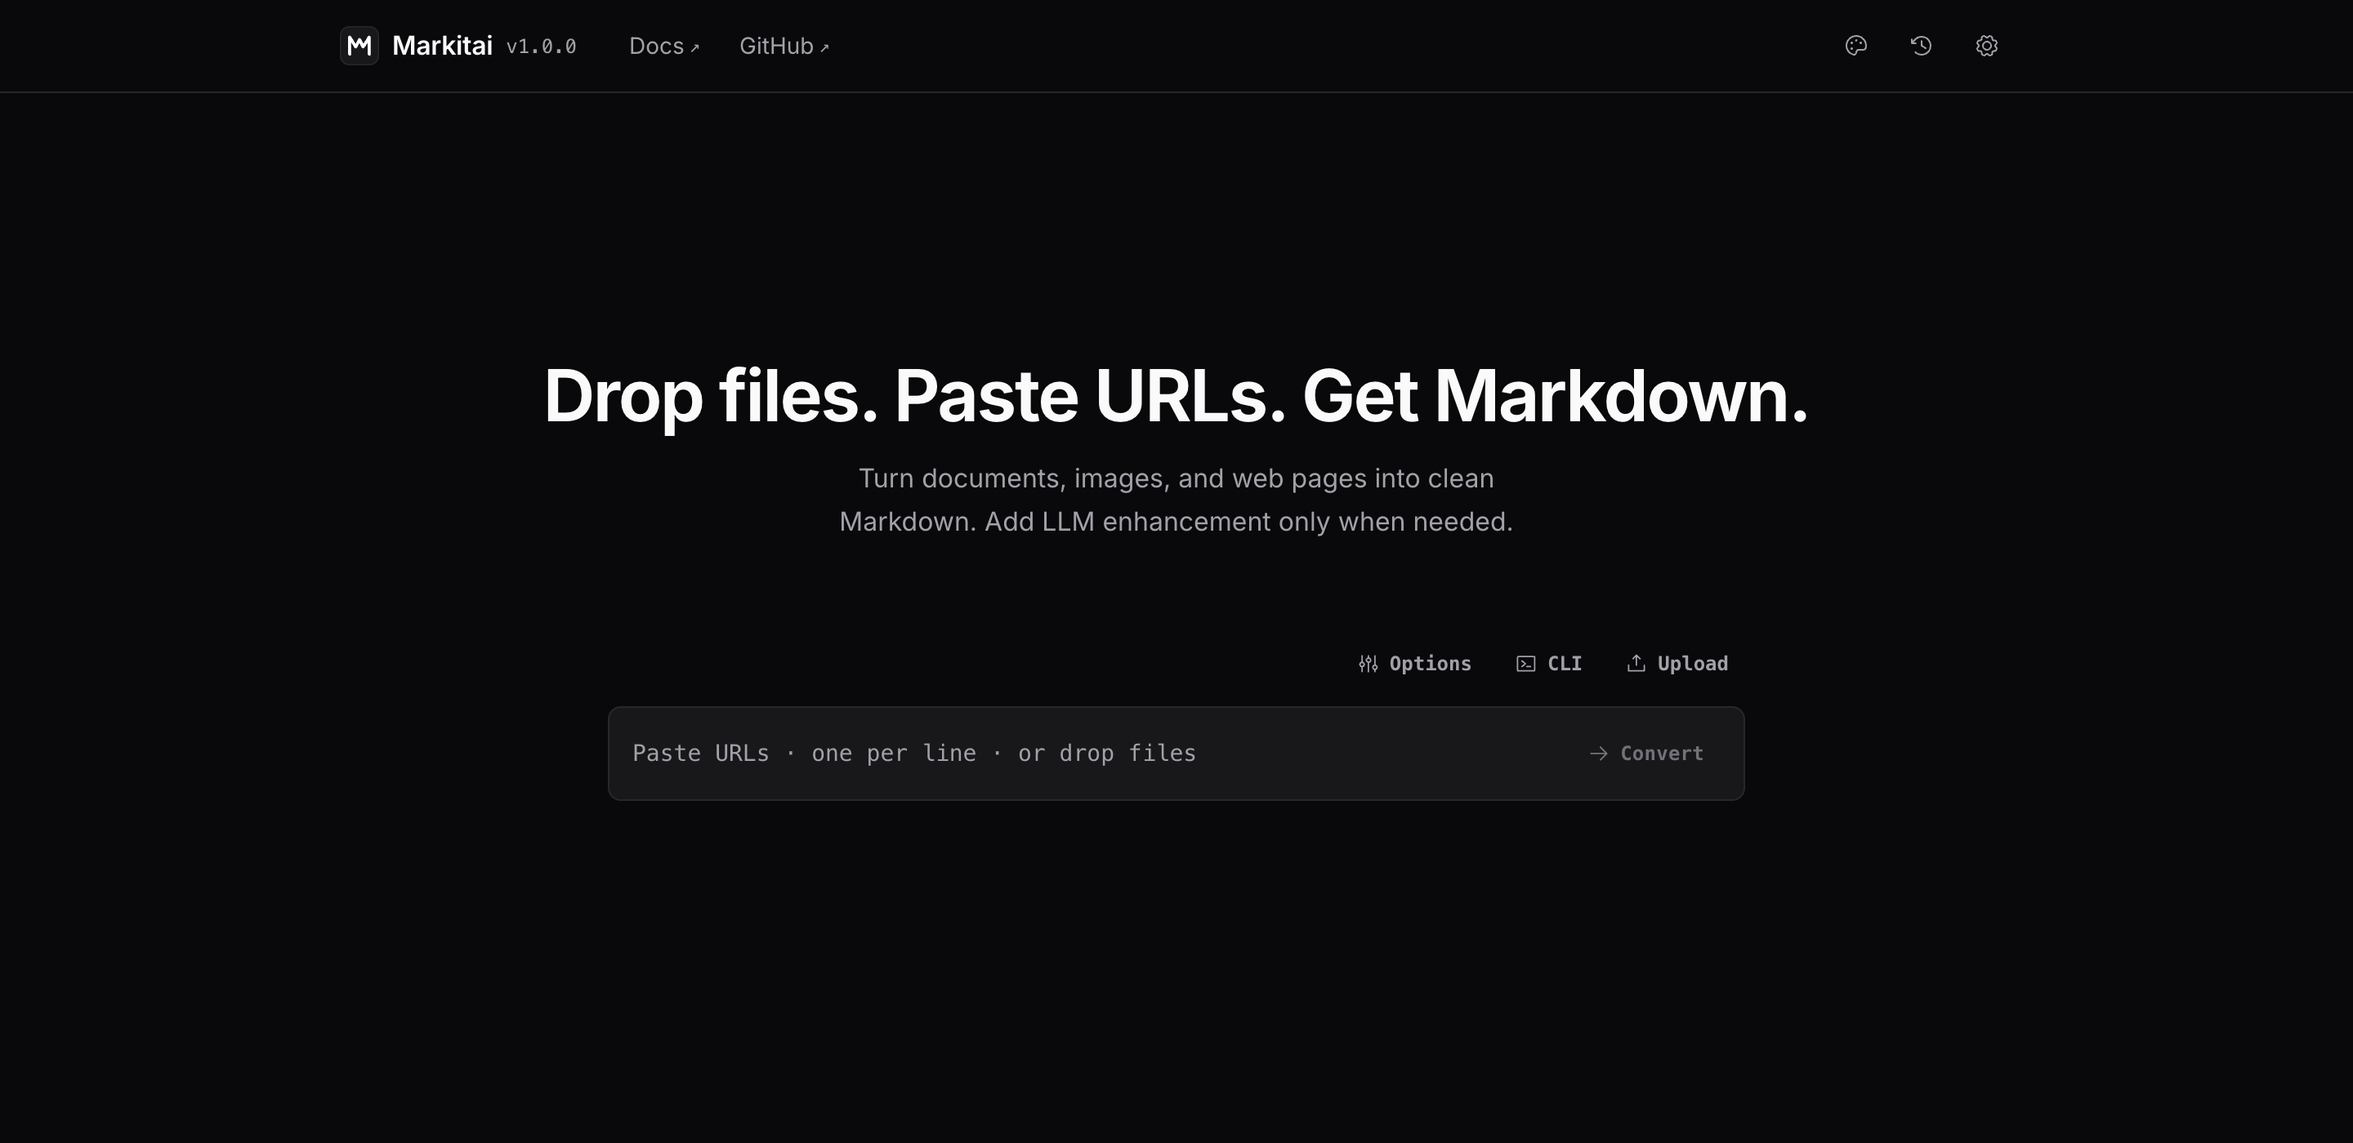
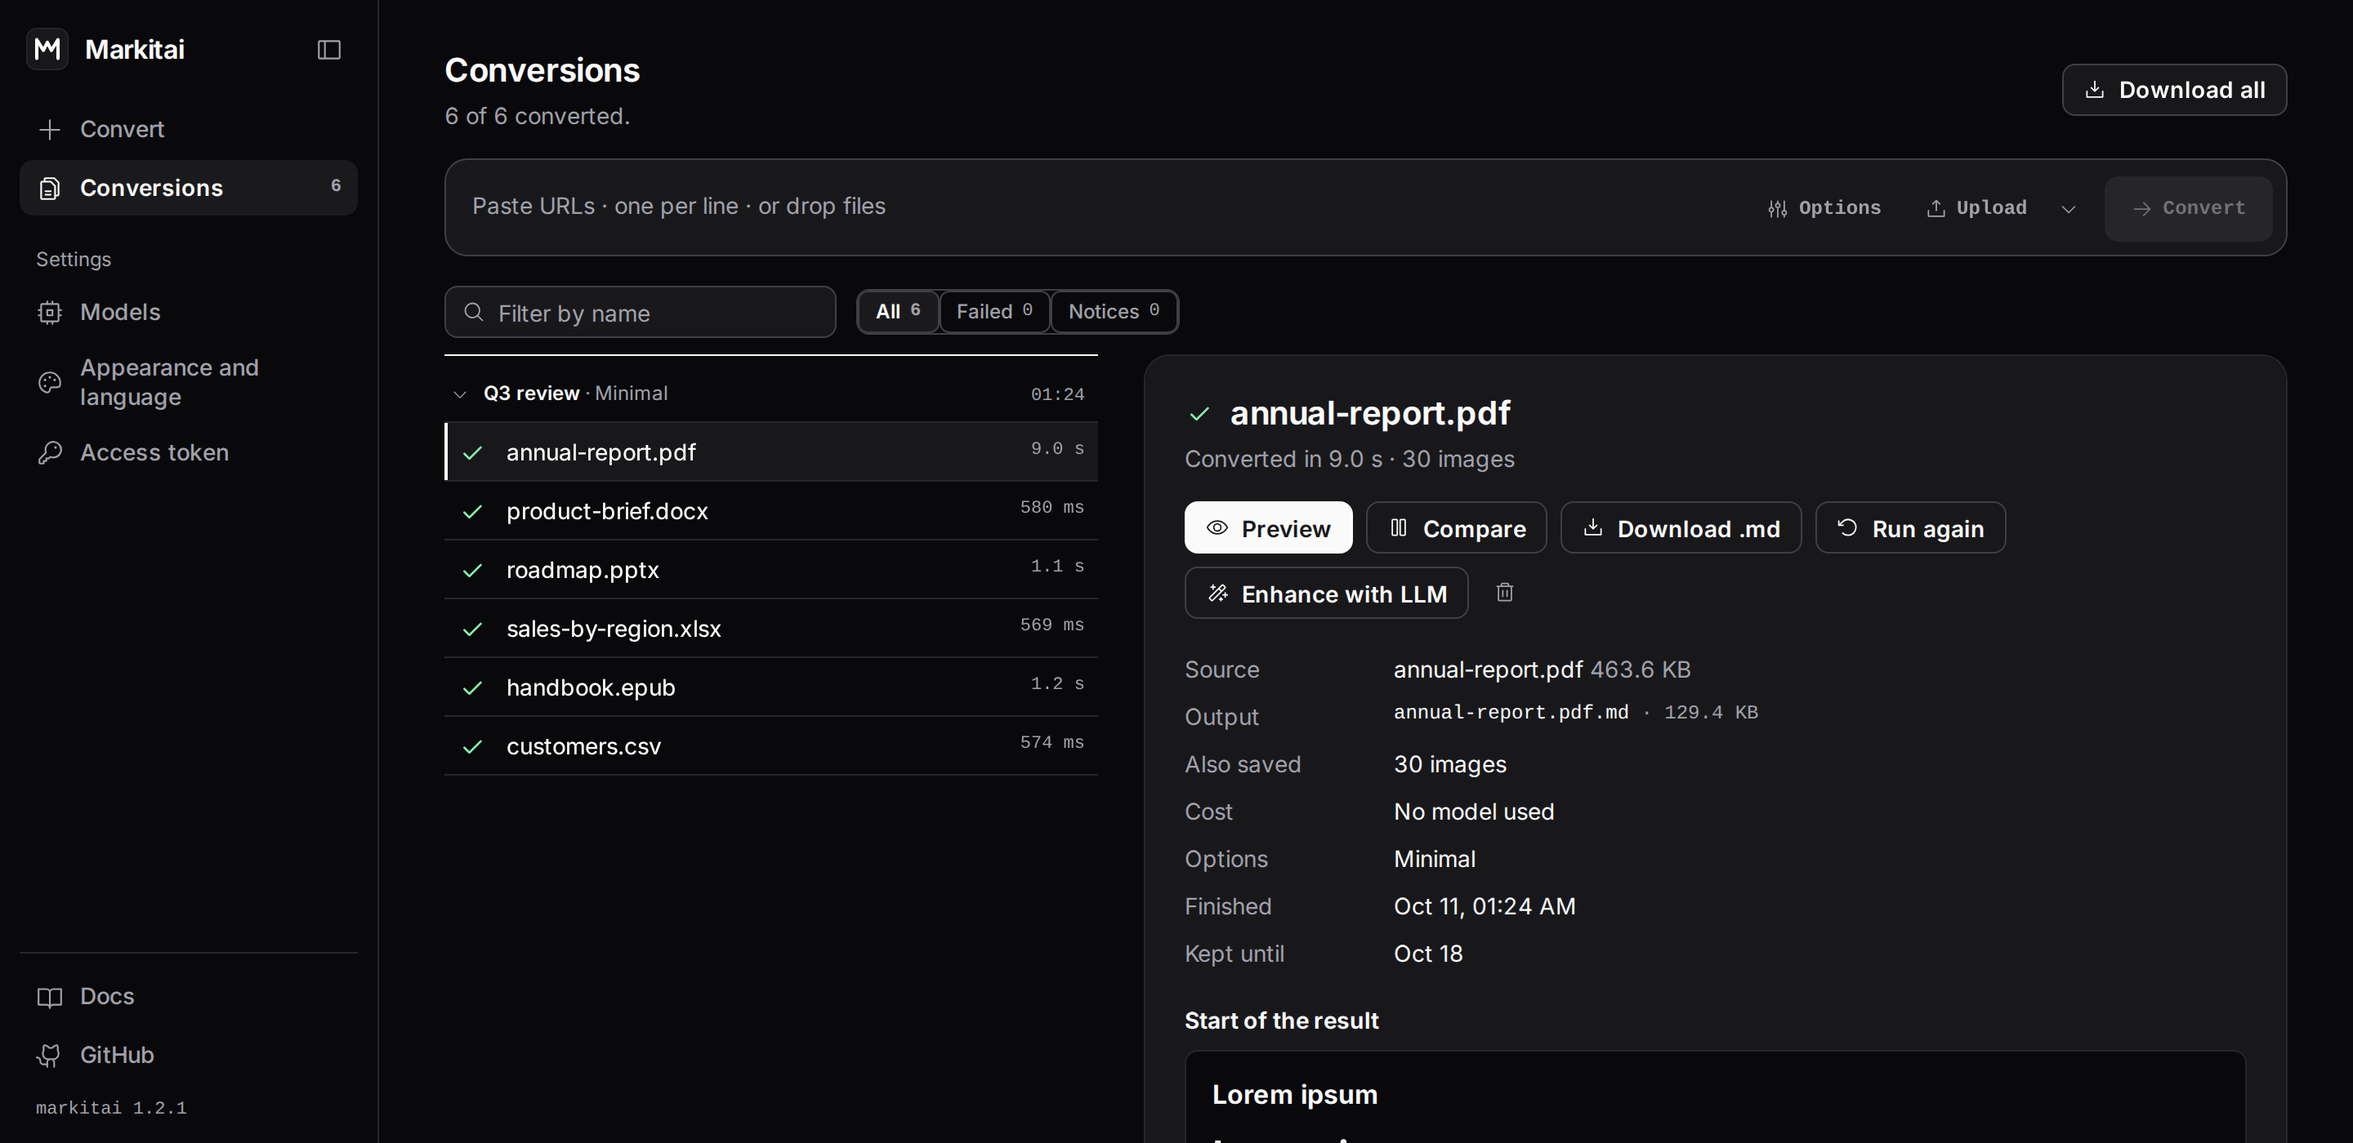
docs(serve): describe the new workbench, refresh its screenshots
The serve guide (en, zh) describes the shared workbench: sidebar with
Convert, Conversions and Settings pages, staged uploads and folders, .urls
lists, the grouped list with filters and Stop remaining, the inspector, the
docked preview with its 500-row table cap, Compare with the original, honest
cost display, notices, history kept until a shown date, the token prompt and
single-use download links. The API table adds cancel, download tickets,
originals, result excerpts, history include=items and the error reasons. The
home page and guide screenshots show the Conversions page with the inspector
(light and dark, English and Chinese).

diff --git a/website/guide/serve.md b/website/guide/serve.md
@@ -1,11 +1,11 @@
 # Web Workspace
 
-`markitai serve` opens a local web page for converting files and URLs. Drop in files, paste links, watch progress, preview and download the results. It works in English and Chinese, on desktop and on a phone.
+`markitai serve` opens a local web workbench for converting files and URLs. Drop in files or a folder, paste links, watch progress, inspect and preview each result next to its original, and download everything. It works in English, Chinese and Japanese, on desktop and on a phone.
 
 Everything runs on your machine. Jobs and history live on disk, and nothing leaves the host except what you send to the fetch strategies and LLM providers you configure.
 
-![The markitai web workspace: a composer card with a URL field, a Convert button, and Options, CLI, and Upload toggles.](/workbench.png){.light-only}
-![The markitai web workspace: a composer card with a URL field, a Convert button, and Options, CLI, and Upload toggles.](/workbench.dark.png){.dark-only}
+![The markitai web workbench: a sidebar with Convert, Conversions and Settings, the list of converted files grouped by submission, and an inspector showing the selected file's status, sizes, cost and options.](/workbench.png){.light-only}
+![The markitai web workbench: a sidebar with Convert, Conversions and Settings, the list of converted files grouped by submission, and an inspector showing the selected file's status, sizes, cost and options.](/workbench.dark.png){.dark-only}
 
 ## Starting the Server
 
@@ -30,6 +30,8 @@ The workspace opens in your browser at `http://127.0.0.1:3600`.
 
 At startup the server prints a URL that ends in `#token=…`, and the browser it opens uses that URL. Requests from this machine need no token, except for the LLM settings (`/api/settings/llm…`), which hold your provider keys: any local program or a page on another `localhost` port also connects from this machine, so those routes always need the token. Every other device must open that URL; scripts send the token as `Authorization: Bearer <token>`. A request whose client address the server can't see counts as coming from another device.
 
+A tab opened without the token asks for it where it is needed (**Settings → Access token** holds it for that tab). Downloads opened by the browser use a single-use link that expires after a minute, so the token itself never appears in a URL, the browser history or the download list.
+
 Set `MARKITAI_SERVE_TOKEN` to keep the same token across restarts. `--no-auth` drops the token entirely: other devices can still upload, download and use history, but their URL targets are limited to public addresses and LLM settings are locked. This machine then reaches the LLM settings without a token.
 
 ## Accessing from Other Devices
@@ -48,13 +50,17 @@ The token URL is a credential. Anyone holding it can run conversions with your L
 
 ## The Workspace
 
-- **Composer**: drag in files or folders, or paste URLs. The default screen asks nothing. Every option sits behind **Options**, grouped as Preset, Enhance (LLM, OCR, image analysis), Output (profile) and Advanced (fetch strategy, cache, compression).
-- **CLI preview**: the equivalent command line appears when Options is open or you press **CLI**, ready to copy.
-- **Live progress**: each item streams its status, and a notification fires when a job finishes in a background tab.
-- **Per-item actions**: retry a failed item, or LLM-enhance a finished one without reconverting the rest.
-- **Preview**: rendered Markdown with a base vs enhanced comparison, plus a print-to-PDF menu with optional header and footer.
-- **Warnings**: notices that don't fail an item but are worth acting on (pages that look scanned, hidden PDF text that may be a prompt injection, OCR that found no text, slides that couldn't be rendered, a URL screenshot that wasn't captured, an image whose analysis failed and kept its original alt text, an LLM enhancement that failed and left the unenhanced result) show on the item's row and in full at the top of its preview. Each item gets only its own notices, and they stay with the job in history.
-- **Downloads**: single files, a per-job zip, or the whole history as one archive.
+The sidebar has three places: **Convert**, **Conversions** and **Settings** (Models, Appearance and language, Access token). On a phone they move to a bar at the bottom, and details open as sheets.
+
+- **Composer**: paste URLs (one per line), drop files or a folder, or use **Upload** (its menu also picks a folder). Files are staged until you press **Convert**, with upload progress, and can be combined with URLs in one submission. A `.urls` file is read as a list of URLs, as on the command line. URLs are checked before anything is sent.
+- **Options**: nothing is asked by default. **Options** holds the preset, Enhance (LLM, OCR, image analysis), Output (profile) and Advanced (fetch strategy, files backend, cache, compression), with the equivalent command line ready to copy.
+- **Conversions**: one list of every item, grouped by submission (named after the folder or `.urls` list it came from). It updates live; filter it by name or by All, Failed and Notices. **Stop remaining** stops the items of a running submission that have not started; the ones already converting finish, and stopped items can be retried later. A notification fires when a submission finishes in a background tab.
+- **Inspector**: select an item to see its status, the sizes of its source and output, the models used and the cost, its options, how long it is kept and its notices, with the start of the result. From there: **Preview**, **Compare**, **Download .md**, **Run again** or **Retry**, **Enhance with LLM**, or delete it. Retry is not offered for a file type markitai cannot convert.
+- **Cost**: a cost is shown only when it is known. When the provider has no price for a model, the item says the cost is unknown instead of `$0`, and when only some requests were priced it shows "at least" that amount.
+- **Preview**: the result opens beside the list (**F** for full width), with Rendered, Source, Files and, for LLM-enhanced items, Diff against the unenhanced Markdown, plus Export PDF with an optional header and footer. Large tables show their first 500 rows at once (**Show all rows** adds the rest); code blocks are highlighted.
+- **Compare**: shows the original next to the Markdown: the pages of a PDF (hover a heading or table in the Markdown to outline it on the page), an image, an HTML or text document, or the page screenshots a conversion saved (Office files, web pages). Formats a browser cannot show offer **Download the original** instead; URL items keep no copy of the page.
+- **Notices**: things that don't fail an item but are worth acting on (pages that look scanned, hidden PDF text that may be a prompt injection, OCR that found no text, slides that couldn't be rendered, a URL screenshot that wasn't captured, images whose analysis failed and kept their original alt text, an LLM enhancement that failed and left the unenhanced result) are counted on the item and listed in its inspector; repeats of one notice are grouped. Each item gets only its own notices, and they stay with the job in history.
+- **Downloads**: single files, a submission's zip, or everything with **Download all**.
 - **Limits**: 1000 items per job, 100 MB per uploaded file and 5 GB per upload.
 
 ### Presets, Overrides and Commands
@@ -73,15 +79,15 @@ Every option has hover or tap help that says what it depends on, where the data 
 
 ## LLM Settings
 
-The settings dialog edits the same configuration as `markitai config`: discover providers, browse model lists, set weights and test connections without exposing stored keys. Changes apply to web jobs and to later CLI runs alike.
+**Settings → Models** edits the same configuration as `markitai config`: discover providers, browse model lists, set weights and test connections without exposing stored keys. Changes apply to web jobs and to later CLI runs alike.
 
 The provider editor shows a saved key only in masked form (`sk…7890`; an `env:` reference is shown as is). Leave the field as it is to keep the saved key, type a new key to replace it, or clear it to remove the key.
 
-A key is tied to the address it was saved with, so the settings dialog never sends a key you didn't type to a server you picked. It refuses (HTTP 422) to pair an `env:` reference with a custom address, to use an `env:` variable other than the provider key variables (`OPENAI_API_KEY`, `DEEPSEEK_API_KEY`, ...), and to change the address of a connection without re-entering its key. To use such a pairing, either enter the key itself in the dialog together with the new address, or write the pair in the config file (`markitai config edit`, or edit it by hand; see [Custom API Endpoint](/guide/configuration#custom-api-endpoint)). Pairs already in the config file keep working from the dialog.
+A key is tied to the address it was saved with, so the settings page never sends a key you didn't type to a server you picked. It refuses (HTTP 422) to pair an `env:` reference with a custom address, to use an `env:` variable other than the provider key variables (`OPENAI_API_KEY`, `DEEPSEEK_API_KEY`, ...), and to change the address of a connection without re-entering its key. To use such a pairing, either enter the key itself together with the new address, or write the pair in the config file (`markitai config edit`, or edit it by hand; see [Custom API Endpoint](/guide/configuration#custom-api-endpoint)). Pairs already in the config file keep working from the settings page.
 
 ## History
 
-Finished jobs stay under `~/.markitai/serve/jobs/` for 7 days. From the history page you can reopen a job, download its outputs again, delete it, or download everything as one zip.
+Finished jobs stay under `~/.markitai/serve/jobs/` for 7 days after they finish (the inspector shows the date); expired jobs disappear from the list at once and their files are deleted within the hour. They stay in **Conversions** after a reload or a restart: reopen them, download their outputs again, retry or enhance their items, delete them, or download everything as one zip.
 
 CLI runs started with [`--record-history`](/guide/cli#record-history) show up here too, marked with a CLI badge. You can open, download and delete them like any other job, and retry or LLM-enhance their URL items. File items from a CLI run can't be retried or enhanced here, because the run keeps only the outputs and not the original file; run the CLI on the file again instead.
 
@@ -89,21 +95,24 @@ An `--llm-batch` run that stopped waiting while its provider batch was still run
 
 ## API Overview
 
-The UI runs on a small REST + SSE API that scripts can call directly:
+The workbench runs on a small REST + SSE API that scripts can call directly. Errors are JSON `{"detail", "code", "reason"}`: `detail` is an English sentence, `reason` a stable cause such as `llm_unavailable` or `file_too_large`.
 
 | Endpoint | Description |
 |----------|-------------|
-| `GET /api/capabilities` | Server version, presets, LLM and extras status |
-| `POST /api/jobs` | Create a job (multipart form: `files`, `urls` JSON array, `options` JSON) |
-| `GET /api/jobs/{job_id}` | Job status and items (each item carries its `warnings` list) |
+| `GET /api/capabilities` | Server version, presets, LLM and extras status, limits and supported features |
+| `POST /api/jobs` | Create a job (multipart form: `files`, `urls` JSON array, `options` JSON, optional `label`). A `.urls` file becomes URL items. Asking for LLM processing without a usable model is refused (`llm_unavailable`) |
+| `GET /api/jobs/{job_id}` | Job status and items (each item carries its `warnings`, `error_code` and, when a model ran, `pricing`) |
 | `GET /api/jobs/{job_id}/events` | Live progress stream (SSE) |
+| `POST /api/jobs/{job_id}/cancel` | Stop the items still waiting to start |
 | `POST /api/jobs/{job_id}/items/{item_id}/retry` | Retry an item, or LLM-enhance it with `operation: "enhance"` |
 | `DELETE /api/jobs/{job_id}/items/{item_id}` | Permanently remove an item with its upload, outputs, images and screenshots |
-| `GET /api/jobs/{job_id}/items/{item_id}/result` | Item result; sibling assets via `GET /api/jobs/{job_id}/files/{path}` |
+| `GET /api/jobs/{job_id}/items/{item_id}/result` | Item result (`?max_bytes=` for an excerpt); sibling assets via `GET /api/jobs/{job_id}/files/{path}` |
+| `GET /api/jobs/{job_id}/items/{item_id}/original` | What can be shown of the item's original; `/original/file`, `/original/pages/{n}?width=` and `/original/pages/{n}/text` serve it |
 | `GET /api/jobs/{job_id}/archive` | Download the job as a zip |
-| `GET /api/history` | List history entries |
+| `POST /api/download-tickets` | A single-use, one-minute `?ticket=` link for one download |
+| `GET /api/history` | List history entries (`?include=items` adds every item) |
 | `GET /api/history/archive` | Download all of history as one zip |
 | `DELETE /api/history/{job_id}` | Delete one history entry |
 | `/api/settings/llm*` | LLM provider, model and deployment management |
 
-The server rejects state-changing requests from another web origin, so a random web page cannot drive it from your browser.
+The server rejects state-changing requests from another web origin, so a random web page cannot drive it from your browser. Cloudflare processing (`strategy` or `backend` `"cloudflare"`) needs `"remote_processing": "cloudflare"` in the same request's options, as the workbench sends after you confirm it, and is refused for callers without the token.

diff --git a/website/zh/index.md b/website/zh/index.md
@@ -18,14 +18,14 @@ hero:
 <section class="home-shot" aria-labelledby="shot-title">
   <p class="eyebrow">网页工作台</p>
   <h2 id="shot-title">不想敲命令时，有个工作台</h2>
-  <p><code>markitai serve</code> 把同一套转换内核放进本地网页界面。拖入文件、粘贴 URL、看进度、下载结果。</p>
+  <p><code>markitai serve</code> 把同一套转换内核放进本地网页界面。拖入文件、粘贴 URL、看进度，对照原件逐条检查结果，再全部下载。</p>
   <picture class="home-shot-light">
     <source srcset="/workbench.zh.webp" type="image/webp" />
-    <img src="/workbench.zh.png" alt="markitai 网页工作台：一张转换输入卡片，含 URL 输入框、「转换」按钮与「选项」「CLI」「上传」开关。" width="1440" height="700" loading="lazy" />
+    <img src="/workbench.zh.png" alt="markitai 网页工作台：左侧栏有「转换」「转换任务」和「系统设置」，中间是按提交分组的已转换文件列表，右侧检查面板显示所选文件的状态、大小、费用和选项。" width="1440" height="700" loading="lazy" />
   </picture>
   <picture class="home-shot-dark">
     <source srcset="/workbench.zh.dark.webp" type="image/webp" />
-    <img src="/workbench.zh.dark.png" alt="markitai 网页工作台：一张转换输入卡片，含 URL 输入框、「转换」按钮与「选项」「CLI」「上传」开关。" width="1440" height="700" loading="lazy" />
+    <img src="/workbench.zh.dark.png" alt="markitai 网页工作台：左侧栏有「转换」「转换任务」和「系统设置」，中间是按提交分组的已转换文件列表，右侧检查面板显示所选文件的状态、大小、费用和选项。" width="1440" height="700" loading="lazy" />
   </picture>
   <p class="home-shot-link"><a href="/zh/guide/serve">了解网页工作台 <span aria-hidden="true">→</span></a></p>
 </section>

diff --git a/website/index.md b/website/index.md
@@ -18,14 +18,14 @@ hero:
 <section class="home-shot" aria-labelledby="shot-title">
   <p class="eyebrow">Web workspace</p>
   <h2 id="shot-title">A web workspace, when you would rather not type</h2>
-  <p><code>markitai serve</code> puts the same conversion core behind a local web UI. Drop files in, paste URLs, watch progress, download results.</p>
+  <p><code>markitai serve</code> puts the same conversion core behind a local web UI. Drop files in, paste URLs, watch progress, check each result next to its original, download everything.</p>
   <picture class="home-shot-light">
     <source srcset="/workbench.webp" type="image/webp" />
-    <img src="/workbench.png" alt="The markitai web workspace: a composer card with a URL field, a Convert button, and Options, CLI, and Upload toggles." width="1440" height="700" loading="lazy" />
+    <img src="/workbench.png" alt="The markitai web workbench: a sidebar with Convert, Conversions and Settings, the list of converted files grouped by submission, and an inspector showing the selected file's status, sizes, cost and options." width="1440" height="700" loading="lazy" />
   </picture>
   <picture class="home-shot-dark">
     <source srcset="/workbench.dark.webp" type="image/webp" />
-    <img src="/workbench.dark.png" alt="The markitai web workspace: a composer card with a URL field, a Convert button, and Options, CLI, and Upload toggles." width="1440" height="700" loading="lazy" />
+    <img src="/workbench.dark.png" alt="The markitai web workbench: a sidebar with Convert, Conversions and Settings, the list of converted files grouped by submission, and an inspector showing the selected file's status, sizes, cost and options." width="1440" height="700" loading="lazy" />
   </picture>
   <p class="home-shot-link"><a href="/guide/serve">Read about the web workspace <span aria-hidden="true">→</span></a></p>
 </section>
